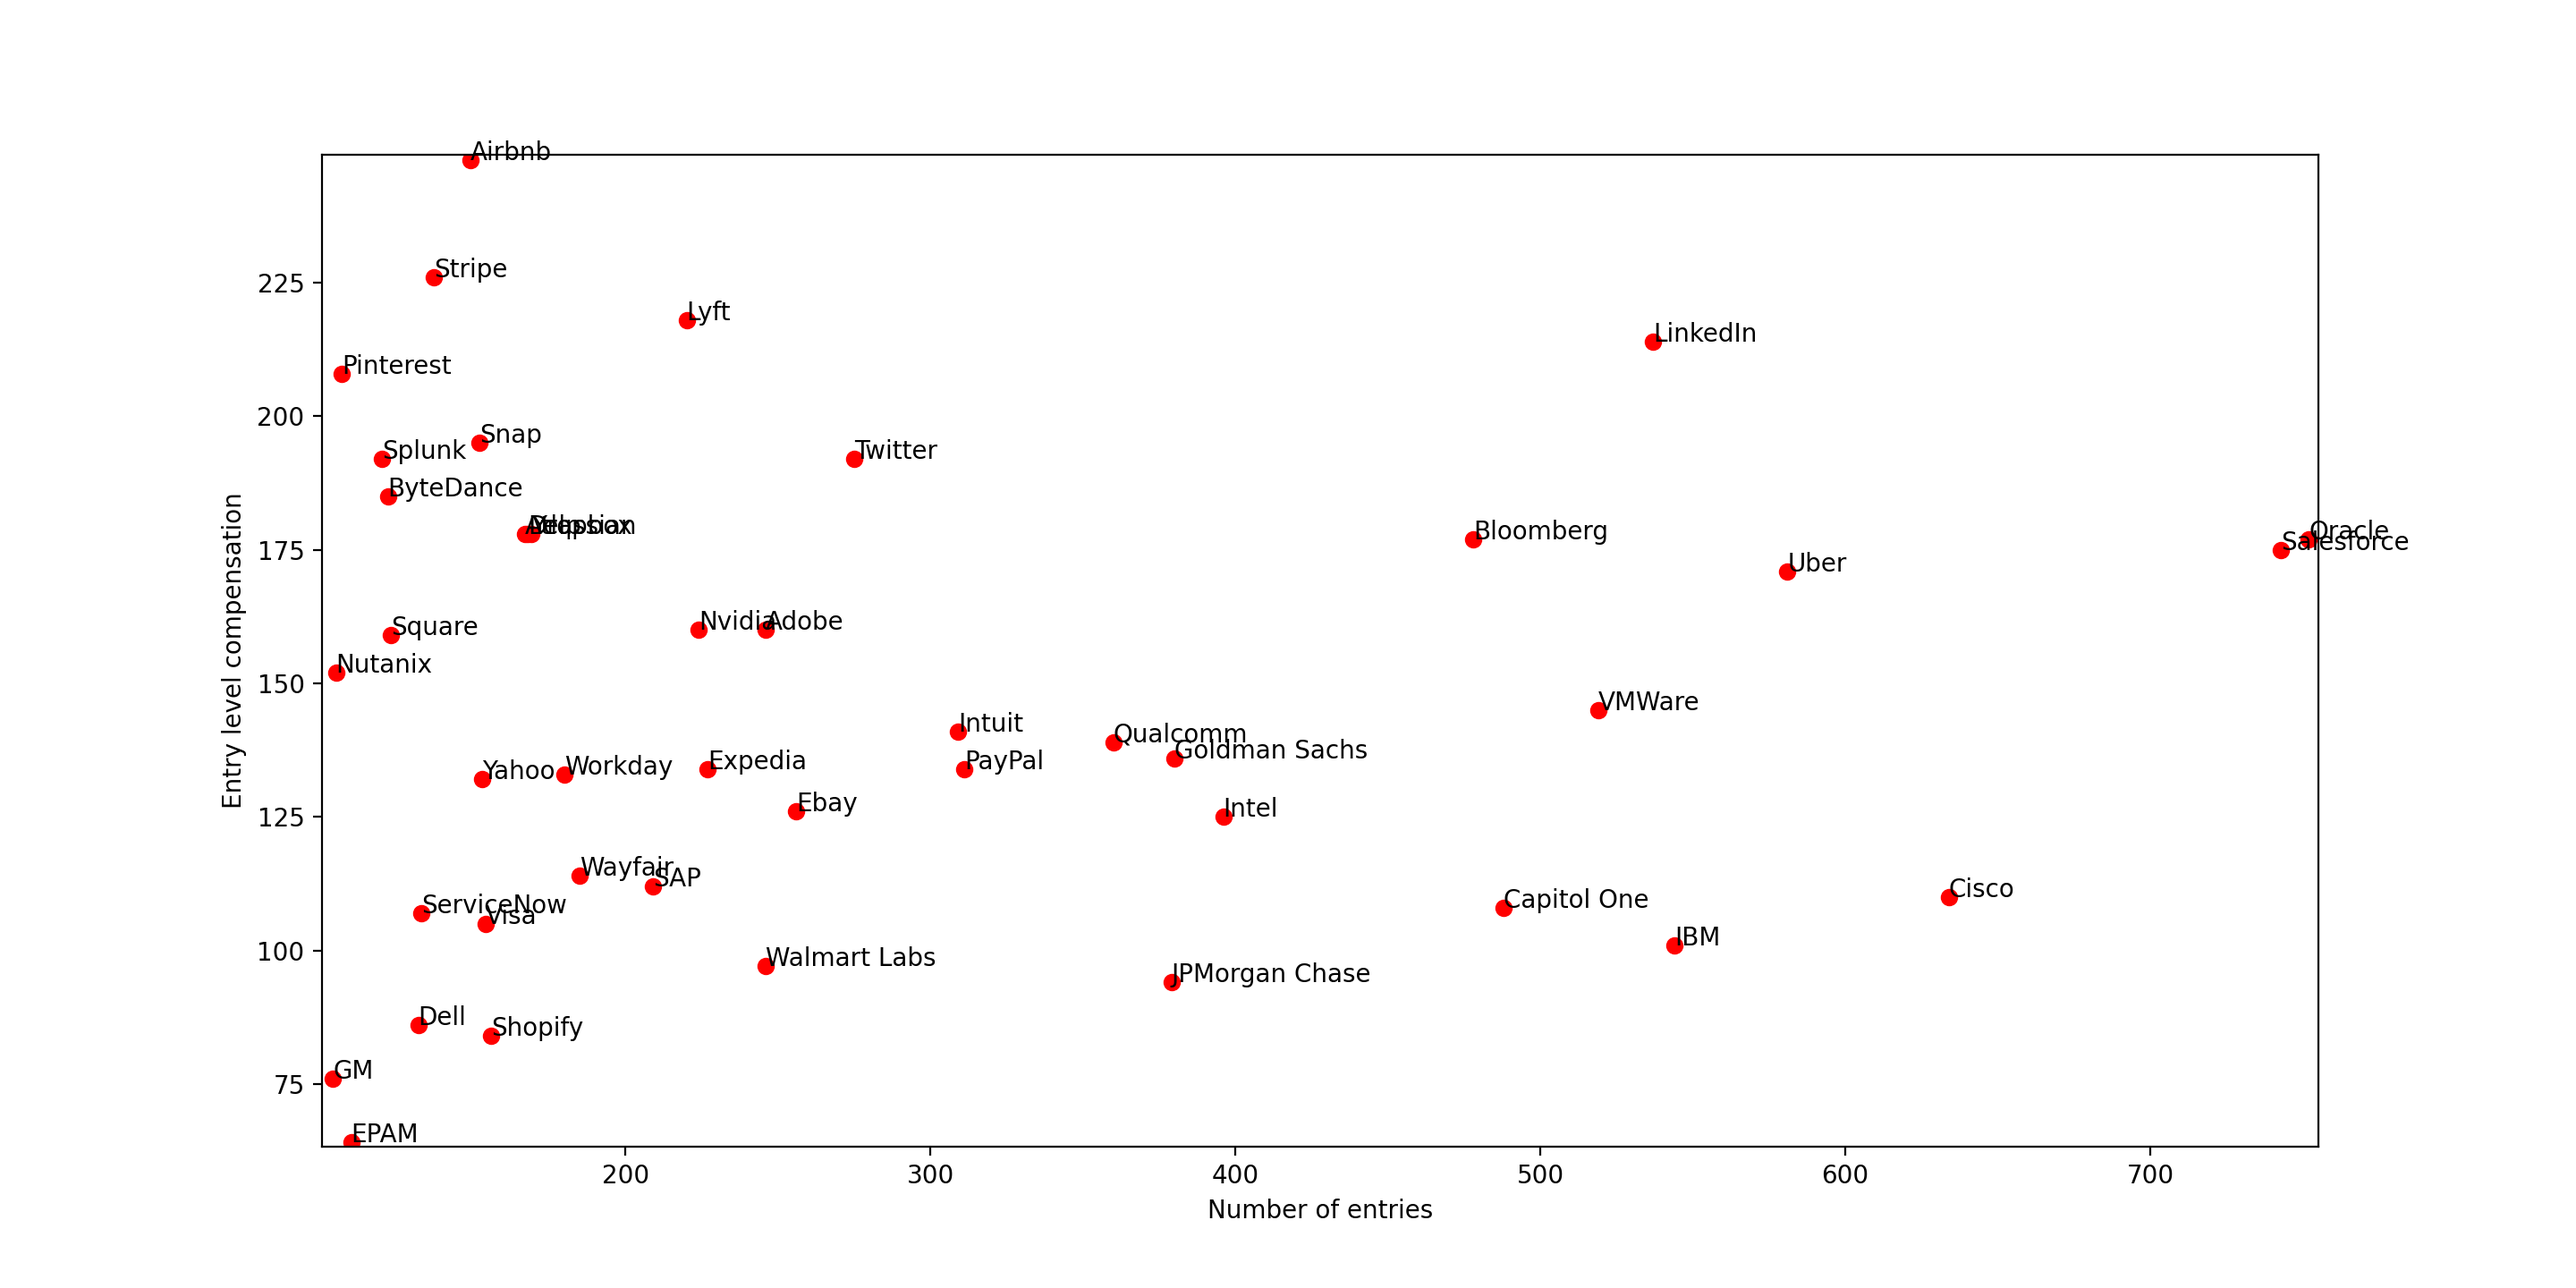
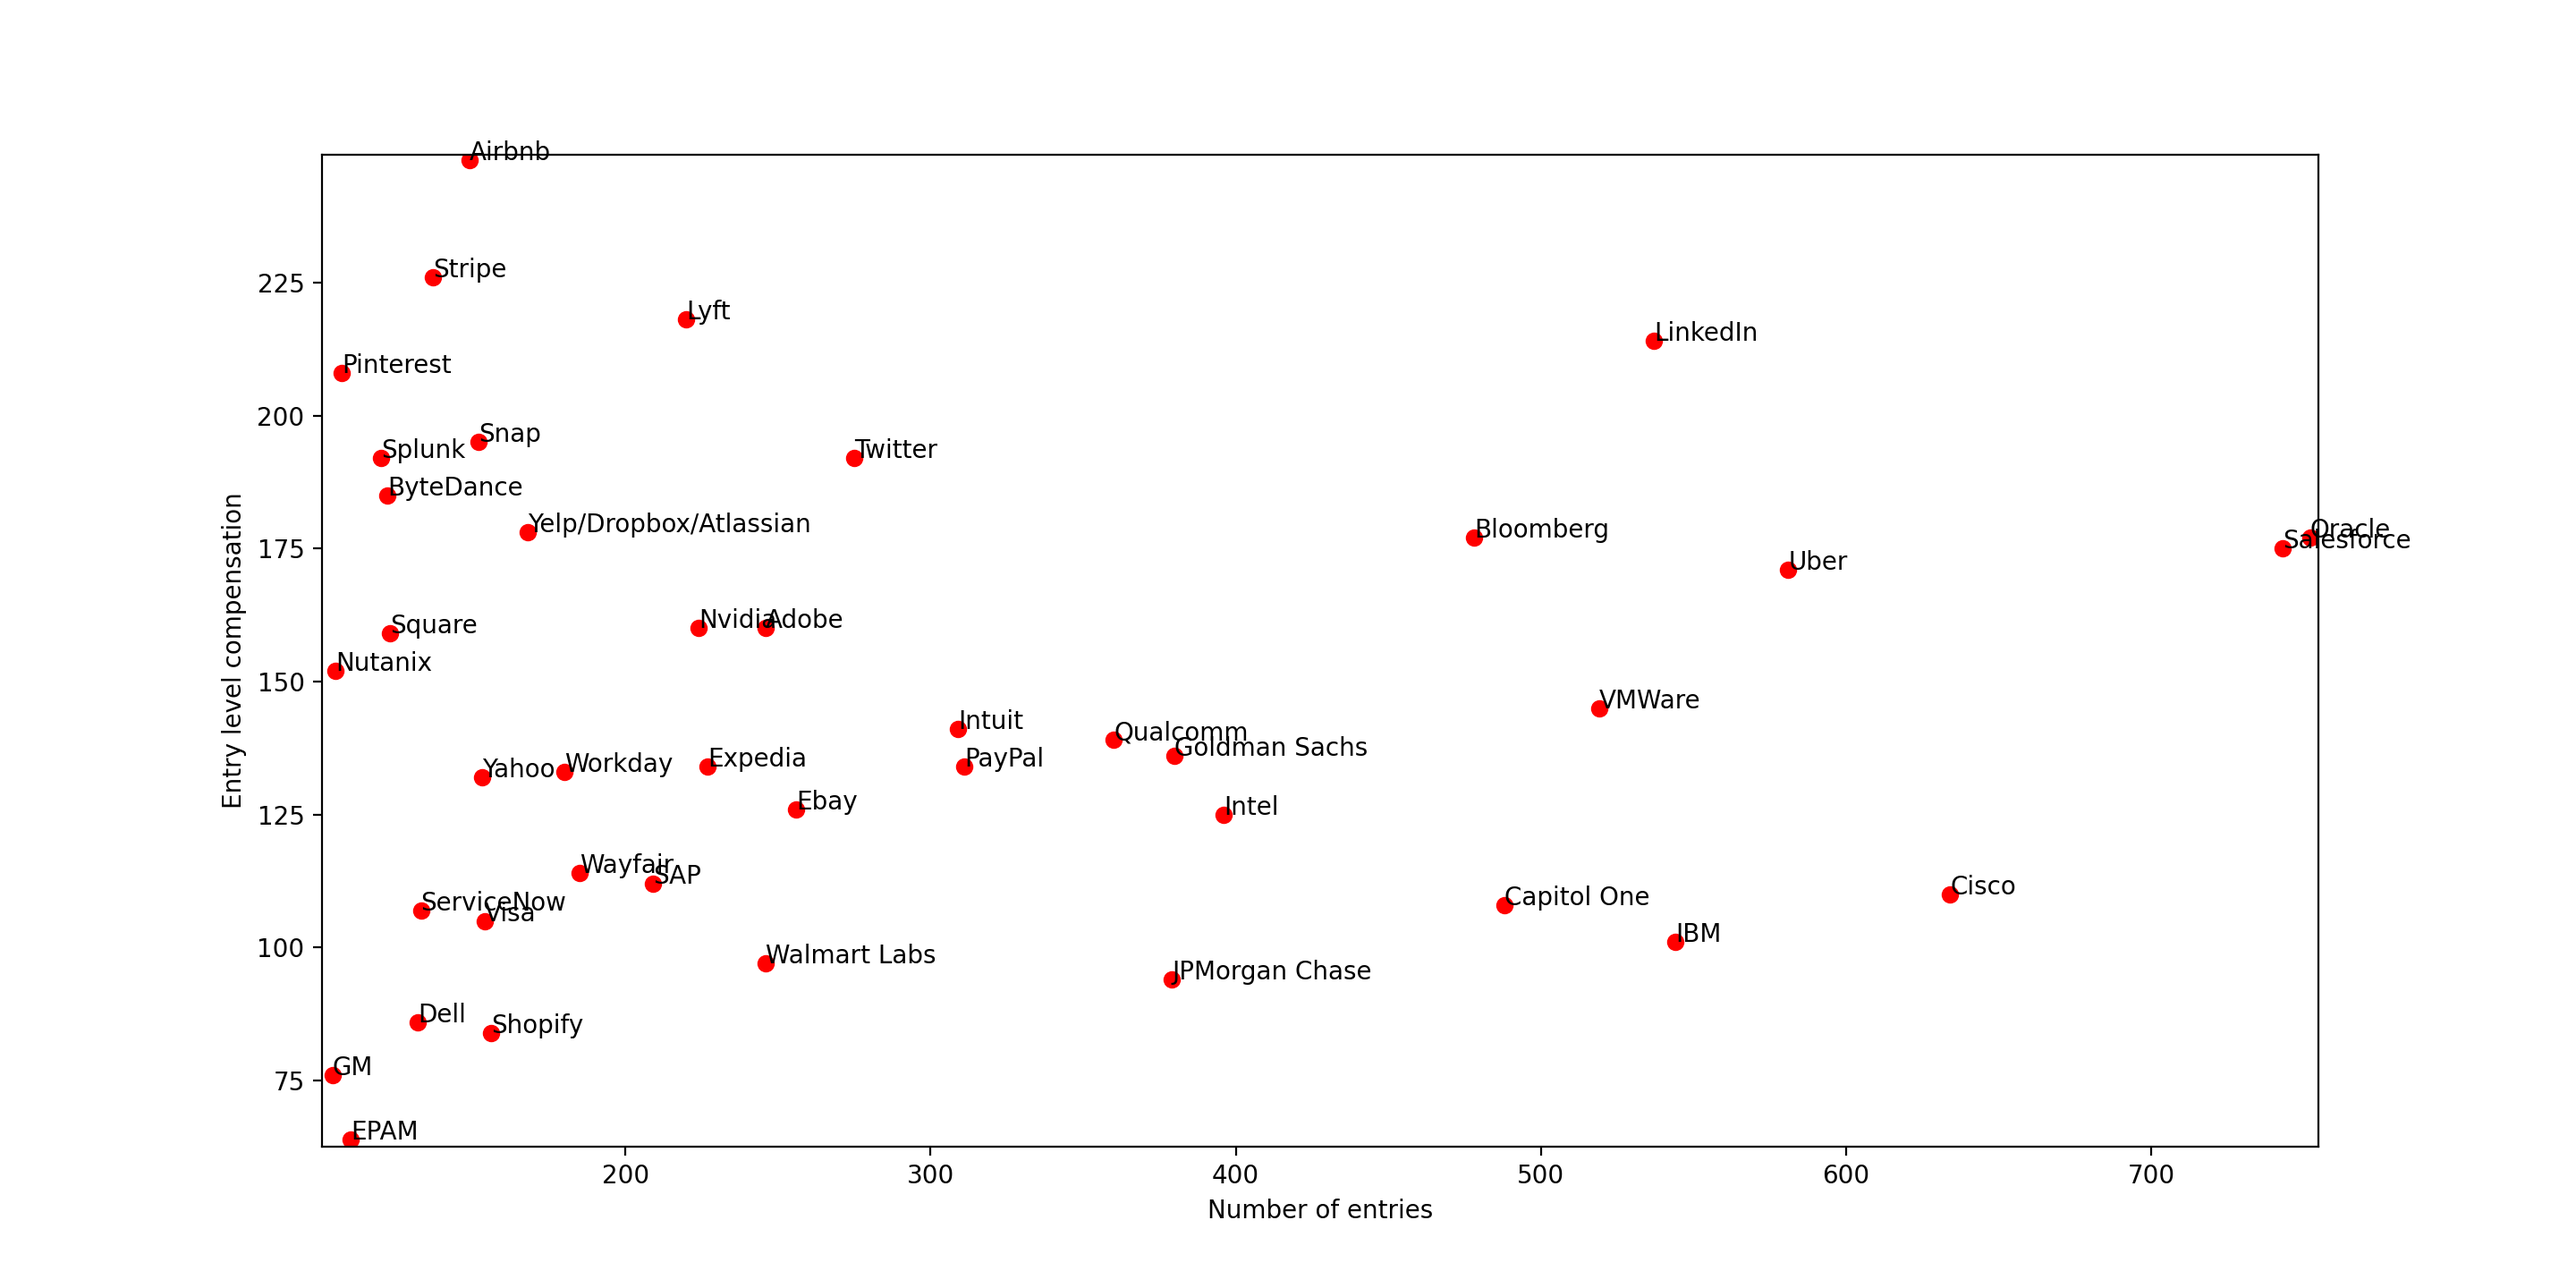
combining overlapping data points

diff --git a/tech-compensation/main.py b/tech-compensation/main.py
@@ -32,9 +32,7 @@ map = {
 'Wayfair': [185, 114],
 'Workday': [180, 133],
 # Netflix
-'Yelp': [169, 178],
-'Dropbox': [168, 178],
-'Atlassian': [167, 178],
+'Yelp/Dropbox/Atlassian': [168, 178],
 'Shopify': [156, 84],
 'Visa': [154, 105],
 'Yahoo': [153, 132],
